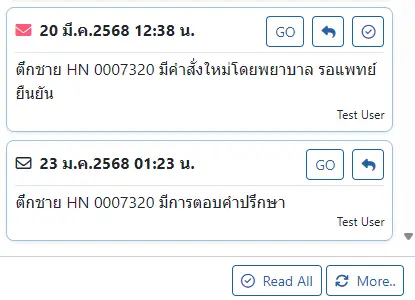
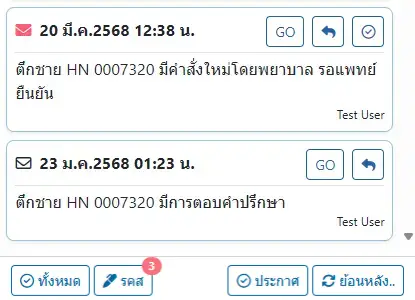
fixed message

diff --git a/src/extra/message.md b/src/extra/message.md
@@ -52,12 +52,17 @@
 
 ## การจัดการข้อความ
 ![Message Messages](images/message-messages.webp)
-* <i class="fa fa-envelope"></i> สีแดง : ข้อความที่ `ยังไม่ได้อ่าน`
-* <i class="fa fa-envelope"></i> ไม่มีสี : ข้อความที่ `อ่านแล้ว`
-* ปุ่ม `GO` : ไปยัง URL ที่แนบ
-* ปุ่ม <i class="fa fa-reply"></i> : ตอบกลับ
-* ปุ่ม <i class="fa fa-check-circle-o"></i> : กำหนดว่า `อ่านแล้ว`
-* ปุ่ม <i class="fa fa-refresh"></i> More.. : โหลดข้อความเก่า
+* <i class="fa fa-envelope" style="color:red;"></i> : ข้อความที่ `ยังไม่ได้อ่าน`
+* <i class="fa fa-envelope"></i> : ข้อความที่ `อ่านแล้ว`
+* `GO` : ไปยัง URL ที่แนบ
+* <i class="fa fa-reply"></i> : ตอบกลับ
+* <i class="fa fa-check-circle-o"></i> : กำหนดว่า `อ่านแล้ว`
+
+ปุ่มด้านล่าง
+* <i class="fa fa-check-circle-o"></i> ทั้งหมด : กำหนดว่า `อ่านแล้ว` ทั้งหมดทุกหัวข้อ
+* <i class="fa fa-pencil"></i> รคส : เปิดหน้าต่าง ยืนยันการ รคส (สำหรับแพทย์)
+* <i class="fa fa-check-circle-o"></i> ประกาศ : กำหนดว่า `อ่านแล้ว` ทั้งหมดในหัวข้อ `ประกาศ`
+* <i class="fa fa-refresh"></i> ย้อนหลัง.. : โหลดข้อความเก่า
 
 <div class="warning">
 

diff --git a/src/shared/antibiogram.md b/src/shared/antibiogram.md
@@ -2,6 +2,10 @@
 
 ![Antibiogram](images/antibiogram.webp)
 
-รวบรวมเอกสาร PDF ที่เกี่ยวข้องกับการควบคุมการติดเชื้อในโรงพยาบาล เพื่อให้เจ้าหน้าที่ผู้เกี่ยวข้องได้ใช้เป็นแนวทางในการเลือกใช้ Antibiotics ในดูแลรักษาผู้ป่วยให้เหมาะสมกับการดื้อยา และความรุนแรงของเชื้อโรคที่เปลี่ยนแปลงตลอดเวลา
+รวบรวมเอกสาร PDF ที่เกี่ยวข้องกับการควบคุมการติดเชื้อในโรงพยาบาล เพื่อให้เจ้าหน้าที่ผู้เกี่ยวข้องได้ใช้เป็นแนวทางในการเลือกใช้ Antibiotics ในดูแลรักษาผู้ป่วยให้เหมาะสมกับการดื้อยา และความรุนแรงของเชื้อโรค
 
-หากต้องการเปลี่ยนแปลงรายการของเอกสาร กรุณาติดต่อผู้ดูแลระบบ
+<div class="warning">
+
+หากต้องการเปลี่ยนแปลงรายการของเอกสาร  
+กรุณาติดต่อผู้ดูแลระบบ
+</div>

diff --git a/src/general.md b/src/general.md
@@ -87,7 +87,9 @@
 
 ### เมนู `ชื่อผู้ใช้งาน`  
 ![User Menu](images/menu-user.webp)
+* `ROLES` : แสดงบทบาทผู้ใช้งาน
 * `Light|Dark|Auto` : เปลี่ยน Theme ของโปรแกรม เป็นแบบ `โทนสีขาว`,`โทนสีดำ`,`ตาม Browser กำหนด`
+* `Wide Screen` : ตั้งค่าการแสดงในจอกว้าง (> 1,750 pixel) สำหรับตารางที่สามารถแสดงในรูปแบบการ์ดผู้ป่วยได้ ให้แสดงแบบ ตาราง (`Table`) หรือการ์ดผู้ป่วย (`Card`)
 * `Update` : ค้นหาและ Update โปรแกรม 
-* `Clear Caches and Reload` : ล้างโปรแกรมออกจาก Web Browser และโหลดใหม่จากเครื่องแม่ข่าย
-* `ออกจากระบบ` : ออกจากระบบ และล้างข้อมูลส่วนบุคคล
+* `Clear Caches and Reload` : ล้างโปรแกรมและข้อมูลส่วนบุคคล ออกจากระบบ สู่หน้า [การเข้าสู่ระบบ](#การเขาสูระบบ)
+* `ออกจากระบบ` : ล้างข้อมูลส่วนบุคคล และออกจากระบบ สู่หน้า [การเข้าสู่ระบบ](#การเขาสูระบบ)
